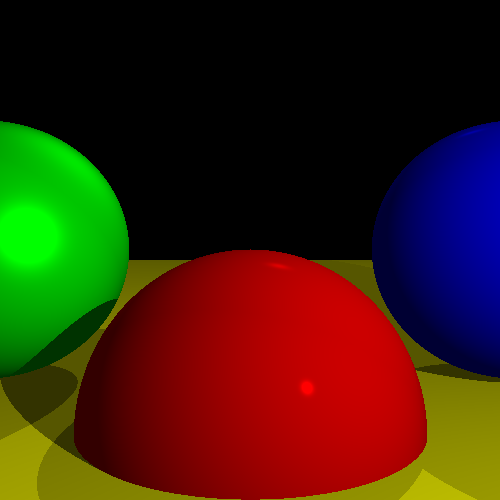
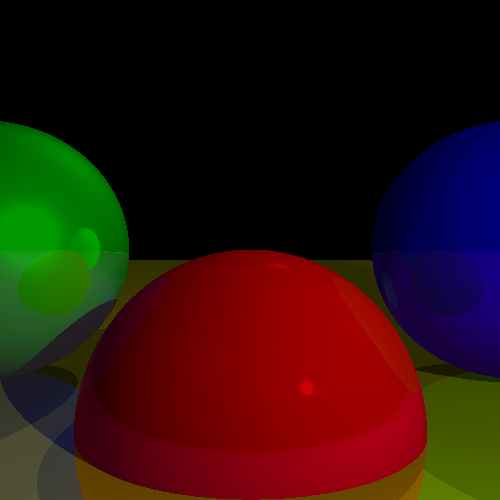
Reran the program to add the correct png

diff --git a/raytracer/raytracing.py b/raytracer/raytracing.py
@@ -49,10 +49,10 @@ scene_lights = [
    directional_light(intensity=0.2, direction=vector(1,4,4))
 ]
 scene_spheres = [
-   sphere(centre=vector(0,-5001,0), radius=5000, color=(255,255,0), specular=1000, reflective=0),
-   sphere(centre=vector(0, -1, 3), radius=1, color=(255,0,0), specular=500, reflective=0),
-   sphere(centre=vector(2, 0, 4), radius=1, color=(0,0,255), specular=500, reflective=0),
-   sphere(centre=vector(-2,0,4), radius=1, color=(0,255,0), specular = 10, reflective=0)
+   sphere(centre=vector(0,-5001,0), radius=5000, color=(255,255,0), specular=1000, reflective=0.5),
+   sphere(centre=vector(0, -1, 3), radius=1, color=(255,0,0), specular=500, reflective=0.2),
+   sphere(centre=vector(2, 0, 4), radius=1, color=(0,0,255), specular=500, reflective=0.3),
+   sphere(centre=vector(-2,0,4), radius=1, color=(0,255,0), specular = 10, reflective=0.4)
 ]
 
 canvas_width = 500
